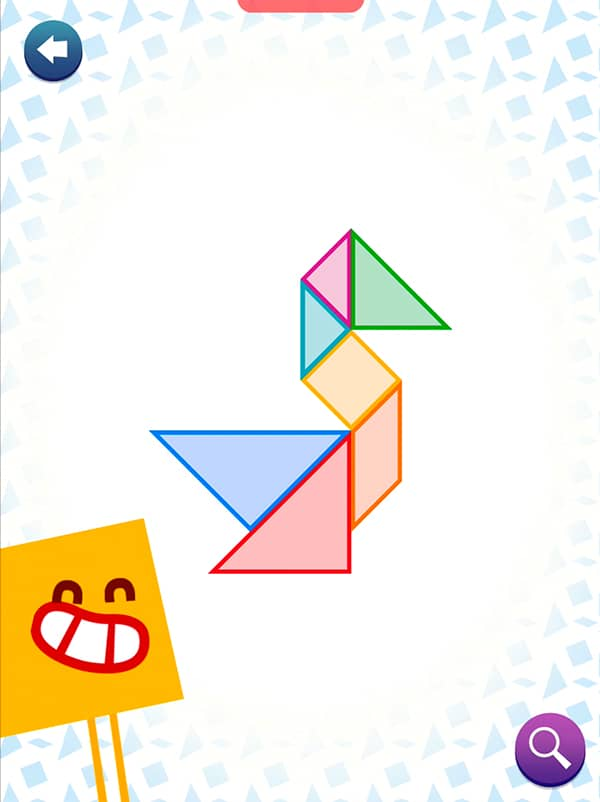
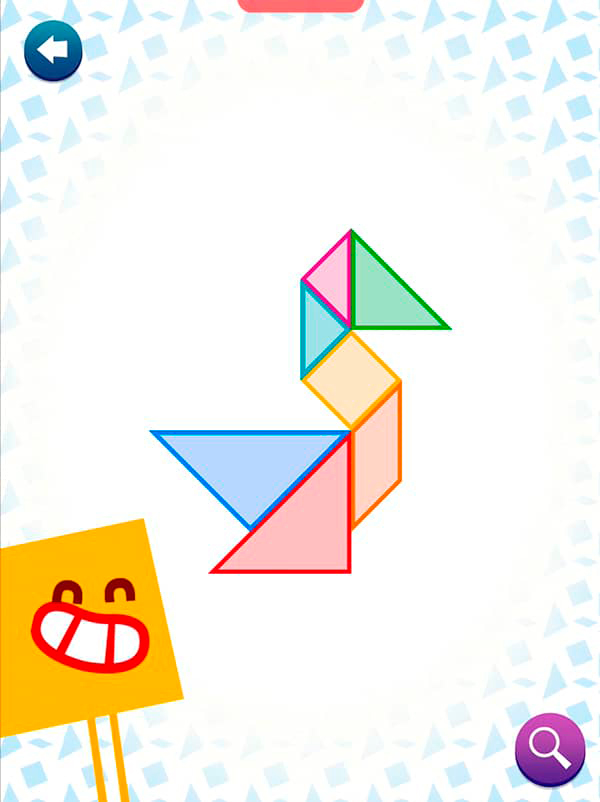
Image optimization
swapped all pngs for jpegs

diff --git a/index.html b/index.html
@@ -110,13 +110,13 @@
       </div>
       <div class="row justify-content-center pb-5">
         <div class="col-lg-2 d-flex justify-content-center">
-          <img class="home__img pt-4 pt-lg-0" src="assets/img/fantasticFoodtruck/kitchenHubMock.png" alt="">
+          <img class="home__img pt-4 pt-lg-0" src="assets/img/fantasticFoodtruck/kitchenHubMock.jpg" alt="">
         </div>
         <div class="col-lg-2 d-flex justify-content-center">
-          <img class="home__img pt-4 pt-lg-0" src="assets/img/fantasticFoodtruck/PrepareDishMock.png" alt="">
+          <img class="home__img pt-4 pt-lg-0" src="assets/img/fantasticFoodtruck/PrepareDishMock.jpg" alt="">
         </div>
         <div class="col-lg-2 d-flex justify-content-center">
-          <img class="home__img pt-4 pt-lg-0" src="assets/img/fantasticFoodtruck/BazarPotion.png" alt="">
+          <img class="home__img pt-4 pt-lg-0" src="assets/img/fantasticFoodtruck/BazarPotion.jpg" alt="">
         </div>
       </div>
 
@@ -143,7 +143,7 @@
       </div>
       <div class="row justify-content-center">
         <div class="col-lg-3 d-flex flex-column justify-content-center">
-          <img class="home__img" src="assets/img/fantasticFoodtruck/OLD-IngredientSelection.png" alt="">
+          <img class="home__img" src="assets/img/fantasticFoodtruck/OLD-IngredientSelection.jpg" alt="">
           <p class="articulo__parrafo-1 texto__dark pt-2 pt-lg-0 pl-3">Old Design</p>
         </div>
         <div class="col-lg-3 d-flex flex-column justify-content-center">
@@ -159,7 +159,7 @@
           <img class="home__img" src="assets/img/fantasticFoodtruck/SwapRecipeIngredient.gif" alt="">
         </div>
         <div class="col-lg-2">
-          <img class="home__img" src="assets/img/fantasticFoodtruck/NewIngredientSelect.png" alt="">
+          <img class="home__img" src="assets/img/fantasticFoodtruck/NewIngredientSelect.jpg" alt="">
         </div>
       </div>
 
@@ -171,7 +171,7 @@
       </div>
       <div class="row justify-content-center pb-5">
         <div class="col-lg-4">
-          <img class="home__img" src="assets/img/fantasticFoodtruck/TreatmentIcona.png" alt="">
+          <img class="home__img" src="assets/img/fantasticFoodtruck/TreatmentIcona.jpg" alt="">
         </div>
       </div>
 
@@ -183,13 +183,13 @@
       </div>
       <div class="row justify-content-center pb-5">
         <div class="col-lg-2 d-flex justify-content-center">
-          <img class="home__img pt-4 pt-lg-0" src="assets/img/fantasticFoodtruck/BazarScreen02Wireframe.png" alt="">
+          <img class="home__img pt-4 pt-lg-0" src="assets/img/fantasticFoodtruck/BazarScreen02Wireframe.jpg" alt="">
         </div>
         <div class="col-lg-2 d-flex justify-content-center">
-          <img class="home__img pt-4 pt-lg-0" src="assets/img/fantasticFoodtruck/BazarNewWireframes.png" alt="">
+          <img class="home__img pt-4 pt-lg-0" src="assets/img/fantasticFoodtruck/BazarNewWireframes.jpg" alt="">
         </div>
         <div class="col-lg-2 d-flex justify-content-center">
-          <img class="home__img pt-4 pt-lg-0" src="assets/img/fantasticFoodtruck/BazarPotion.png" alt="">
+          <img class="home__img pt-4 pt-lg-0" src="assets/img/fantasticFoodtruck/BazarPotion.jpg" alt="">
         </div>
       </div>
 
@@ -201,15 +201,15 @@
       </div>
       <div class="row justify-content-center pb-5">
         <div class="col-lg-3 d-flex justify-content-center">
-          <img class="home__img" src="assets/img/fantasticFoodtruck/FtueFlow.png" alt="">
+          <img class="home__img" src="assets/img/fantasticFoodtruck/FtueFlow.jpg" alt="">
         </div>
         <div class="col-lg-3 d-flex justify-content-center">
-          <img class="home__img" src="assets/img/fantasticFoodtruck/FtueFlowExtension.png" alt="">
+          <img class="home__img" src="assets/img/fantasticFoodtruck/FtueFlowExtension.jpg" alt="">
         </div>
       </div>
       <div class="row justify-content-center pb-5">
         <div class="col-lg-6 d-flex justify-content-center">
-          <img class="home__img" src="assets/img/fantasticFoodtruck/FtueFlowchart.png" alt="">
+          <img class="home__img" src="assets/img/fantasticFoodtruck/FtueFlowchart.jpg" alt="">
         </div>
       </div>
 
@@ -222,13 +222,13 @@
       </div>
       <div class="row justify-content-center pb-5">
         <div class="col-lg-2 d-flex justify-content-center">
-          <img class="home__img pt-4 pt-lg-0" src="assets/img/fantasticFoodtruck/PopupMock.png" alt="">
+          <img class="home__img pt-4 pt-lg-0" src="assets/img/fantasticFoodtruck/PopupMock.jpg" alt="">
         </div>
         <div class="col-lg-2 d-flex justify-content-center">
-          <img class="home__img pt-4 pt-lg-0" src="assets/img/fantasticFoodtruck/Potions Mock.png" alt="">
+          <img class="home__img pt-4 pt-lg-0" src="assets/img/fantasticFoodtruck/Potions-Mock.jpg" alt="">
         </div>
         <div class="col-lg-2 d-flex justify-content-center">
-          <img class="home__img pt-4 pt-lg-0" src="assets/img/fantasticFoodtruck/summaryMock.png" alt="">
+          <img class="home__img pt-4 pt-lg-0" src="assets/img/fantasticFoodtruck/summaryMock.jpg" alt="">
         </div>
       </div>
 
@@ -253,10 +253,10 @@
       </div>
       <div class="row justify-content-center pb-5">
         <div class="col-lg-2 d-flex justify-content-center">
-          <img class="home__img pt-4 pt-lg-0" src="assets/img/tangram/MainMock.png" alt="">
+          <img class="home__img pt-4 pt-lg-0" src="assets/img/tangram/MainMock.jpg" alt="">
         </div>
         <div class="col-lg-2 d-flex justify-content-center">
-          <img class="home__img pt-4 pt-lg-0" src="assets/img/tangram/CustomizationMock.png" alt="">
+          <img class="home__img pt-4 pt-lg-0" src="assets/img/tangram/CustomizationMock.jpg" alt="">
         </div>
         <div class="col-lg-2 d-flex justify-content-center">
           <img class="home__img pt-4 pt-lg-0" src="assets/img/tangram/ActivityScreenMock.jpg" alt="">
@@ -271,8 +271,7 @@
       </div>
       <div class="row justify-content-center pb-5">
         <div class="col-lg-6 d-flex flex-column justify-content-center">
-          <img class="home__img pt-4 pt-lg-0" src="assets/img/tangram/MainScreenFlow.png" alt="">
-          <p class="articulo__parrafo-1 texto__dark pt-2 pt-lg-0 pl-3">Main flow</p>
+          <img class="home__img pt-4 pt-lg-0" src="assets/img/tangram/MainScreenFlow.jpg" alt="">
         </div>
       </div>
 
@@ -284,10 +283,10 @@
       </div>
       <div class="row justify-content-center pb-5">
         <div class="col-lg-2 d-flex justify-content-center">
-          <img class="home__img pt-4 pt-lg-0" src="assets/img/tangram/MainMock.png" alt="">
+          <img class="home__img pt-4 pt-lg-0" src="assets/img/tangram/MainMock.jpg" alt="">
         </div>
         <div class="col-lg-2 d-flex justify-content-center">
-          <img class="home__img pt-4 pt-lg-0" src="assets/img/tangram/MainMock2.png" alt="">
+          <img class="home__img pt-4 pt-lg-0" src="assets/img/tangram/MainMock2.jpg" alt="">
         </div>
         <div class="col-lg-2 d-flex justify-content-center">
           <img class="home__img pt-4 pt-lg-0" src="assets/img/tangram/MainHub.gif" alt="">
@@ -302,10 +301,10 @@
       </div>
       <div class="row justify-content-center pb-5">
         <div class="col-lg-2 d-flex justify-content-center">
-          <img class="home__img pt-4 pt-lg-0" src="assets/img/tangram/customization wireframe.png" alt="">
+          <img class="home__img pt-4 pt-lg-0" src="assets/img/tangram/customization-wireframe.jpg" alt="">
         </div>
         <div class="col-lg-2 d-flex justify-content-center">
-          <img class="home__img pt-4 pt-lg-0" src="assets/img/tangram/CustomizationMock.png" alt="">
+          <img class="home__img pt-4 pt-lg-0" src="assets/img/tangram/CustomizationMock.jpg" alt="">
         </div>
         <div class="col-lg-2 d-flex justify-content-center">
           <img class="home__img pt-4 pt-lg-0" src="assets/img/tangram/Customization.gif" alt="">
@@ -320,8 +319,7 @@
       </div>
       <div class="row justify-content-center">
         <div class="col-lg-6 d-flex flex-column justify-content-center">
-          <img class="home__img pt-4 pt-lg-0" src="assets/img/tangram/Difficulty.png" alt="">
-          <p class="articulo__parrafo-1 texto__dark pt-2 pt-lg-0 pl-3">Initial Mock</p>
+          <img class="home__img pt-4 pt-lg-0" src="assets/img/tangram/Difficulty.jpg" alt="">
         </div>
       </div>
       <div class="row justify-content-center pt-0 pt-lg-5 pb-5">
@@ -389,11 +387,11 @@
         </div>
       </div>
       <div class="row d-flex justify-content-center">
-        <div class="col-lg-2 d-flex justify-content-center">
-          <img class="home__img pt-4 pt-lg-0" src="assets/img/squiggle/Mainhub 1st Iteration.png" alt="">
+        <div class="col-lg-3 d-flex justify-content-center">
+          <img class="home__img pt-4 pt-lg-0" src="assets/img/squiggle/Mainhub-1st-Iteration.jpg" alt="">
         </div>
         <div class="col-lg-4 d-flex justify-content-center">
-          <img class="home__img pt-4 pt-lg-0" src="assets/img/squiggle/LevelMockValentines.png" alt="">
+          <img class="home__img pt-4 pt-lg-0" src="assets/img/squiggle/LevelMockValentines.jpg" alt="">
         </div>
       </div>
 
@@ -432,11 +430,11 @@
       </div>
       <div class="row justify-content-center">
         <div class="col-lg-4 d-flex flex-column justify-content-center">
-          <img class="home__img" src="assets/img/squiggle/CustomizationWireframes-Exploration.png" alt="">
+          <img class="home__img" src="assets/img/squiggle/CustomizationWireframes-Exploration.jpg" alt="">
           <p class="articulo__parrafo-1 texto__dark pt-2 pt-lg-0 pl-3">Wireframe exploration</p>
         </div>
         <div class="col-lg-2 d-flex flex-column justify-content-center">
-          <img class="home__img pt-4 pt-lg-0" src="assets/img/squiggle/CustomizationScreen.png" alt="">
+          <img class="home__img pt-4 pt-lg-0" src="assets/img/squiggle/CustomizationScreen.jpg" alt="">
           <p class="articulo__parrafo-1 texto__dark pt-2 pt-lg-0 pl-3">Final design</p>
         </div>
       </div>
@@ -449,7 +447,7 @@
       </div>
       <div class="row justify-content-center">
         <div class="col-lg-6 d-flex justify-content-center">
-          <img class="home__img pt-4 pt-lg-0" src="assets/img/squiggle/RoomCompletionGuide.png" alt="">
+          <img class="home__img pt-4 pt-lg-0" src="assets/img/squiggle/RoomCompletionGuide.jpg" alt="">
         </div>
       </div>
         <!--End of Container-->
@@ -485,18 +483,18 @@
       </div>
       <div class="row justify-content-center pb-5">
         <div class="col-lg-2 d-flex justify-content-center">
-          <img class="home__img pt-4 pt-lg-0" src="assets/img/alveaArticulo/benchmark.png" alt="">
+          <img class="home__img pt-4 pt-lg-0" src="assets/img/alveaArticulo/benchmark.jpg" alt="">
         </div>
         <div class="col-lg-4 d-flex justify-content-center">
-          <img class="home__img pt-4 pt-lg-0" src="assets/img/alveaArticulo/investigacion.png" alt="">
+          <img class="home__img pt-4 pt-lg-0" src="assets/img/alveaArticulo/investigacion.jpg" alt="">
         </div>
         <div class="col-lg-4 d-flex d-lg-none justify-content-center">
-          <img class="home__img pt-4 pt-lg-0" src="assets/img/alveaArticulo/gamedesign1.png" alt="">
+          <img class="home__img pt-4 pt-lg-0" src="assets/img/alveaArticulo/gamedesign1.jpg" alt="">
         </div>
       </div>
       <div class="row d-none d-lg-flex justify-content-center pb-5">
         <div class="col-lg-6 d-flex justify-content-center">
-          <img class="home__img pt-4 pt-lg-0" src="assets/img/alveaArticulo/gamedesign1.png" alt="">
+          <img class="home__img pt-4 pt-lg-0" src="assets/img/alveaArticulo/gamedesign1.jpg" alt="">
         </div>
       </div>
 
@@ -507,11 +505,11 @@
         </div>
       </div>
       <div class="row justify-content-center">
-        <div class="col-lg-2 d-flex justify-content-center">
+        <div class="col-lg-3 d-flex justify-content-center">
           <img class="home__img pt-4 pt-lg-0" src="assets/img/alveaArticulo/Wireframe.gif" alt="">
         </div>
-        <div class="col-lg-4 d-flex justify-content-center">
-          <img class="home__img pt-4 pt-lg-0" src="assets/img/alveaArticulo/wireframe5.png" alt="">
+        <div class="col-lg-3 d-flex justify-content-center">
+          <img class="home__img pt-4 pt-lg-0" src="assets/img/alveaArticulo/wireframe5.jpg" alt="">
         </div>
       </div>
 
@@ -522,11 +520,11 @@
           </div>
         </div>
         <div class="row justify-content-center">
-          <div class="col-lg-3 d-flex justify-content-center">
-            <img class="home__img pt-4 pt-lg-0" src="assets/img/alveaArticulo/uiKit.png" alt="">
+          <div class="col-lg-2 d-flex justify-content-center">
+            <img class="home__img pt-4 pt-lg-0" src="assets/img/alveaArticulo/uiKit.jpg" alt="">
           </div>
-          <div class="col-lg-3 d-flex justify-content-center">
-            <img class="home__img pt-4 pt-lg-0" src="assets/img/alveaArticulo/wireframe7.png" alt="">
+          <div class="col-lg-4 d-flex justify-content-center">
+            <img class="home__img pt-4 pt-lg-0" src="assets/img/alveaArticulo/wireframe7.jpg" alt="">
           </div>
         </div>
 
@@ -538,13 +536,13 @@
       </div>
       <div class="row justify-content-center pb-5">
         <div class="col-lg-2 d-flex justify-content-center">
-          <img class="home__img pt-4 pt-lg-0" src="assets/img/alveaArticulo/arte1.png" alt="">
+          <img class="home__img pt-4 pt-lg-0" src="assets/img/alveaArticulo/arte1.jpg" alt="">
         </div>
         <div class="col-lg-2 d-flex justify-content-center">
-          <img class="home__img pt-4 pt-lg-0" src="assets/img/alveaArticulo/arte2.png" alt="">
+          <img class="home__img pt-4 pt-lg-0" src="assets/img/alveaArticulo/arte2.jpg" alt="">
         </div>
         <div class="col-lg-2 d-flex justify-content-center">
-          <img class="home__img pt-4 pt-lg-0" src="assets/img/alveaArticulo/arte3.png" alt="">
+          <img class="home__img pt-4 pt-lg-0" src="assets/img/alveaArticulo/arte3.jpg" alt="">
         </div>
       </div>
       <!--Characters-->
@@ -555,15 +553,15 @@
       </div>
       <div class="row justify-content-center pb-5">
         <div class="col-lg-6 d-flex justify-content-center">
-          <img class="home__img" src="assets/img/alveaArticulo/arte4.png" alt="">
+          <img class="home__img" src="assets/img/alveaArticulo/arte4.jpg" alt="">
         </div>
       </div>
       <div class="row justify-content-center pb-5">
         <div class="col-lg-3 d-flex justify-content-center">
-          <img class="home__img pt-4 pt-lg-0" src="assets/img/alveaArticulo/arte5.png" alt="">
+          <img class="home__img pt-4 pt-lg-0" src="assets/img/alveaArticulo/arte5.jpg" alt="">
         </div>
         <div class="col-lg-3 d-flex justify-content-center">
-          <img class="home__img pt-4 pt-lg-0" src="assets/img/alveaArticulo/arte6.png" alt="">
+          <img class="home__img pt-4 pt-lg-0" src="assets/img/alveaArticulo/arte6.jpg" alt="">
         </div>
       </div>
       <!--Proto-->
@@ -574,7 +572,7 @@
       </div>
       <div class="row justify-content-center pb-5">
         <div class="col-lg-6 d-flex justify-content-center">
-          <img class="home__img" src="assets/img/alveaArticulo/prototipo1.png" alt="">
+          <img class="home__img" src="assets/img/alveaArticulo/prototipo1.jpg" alt="">
         </div>
       </div>
 
